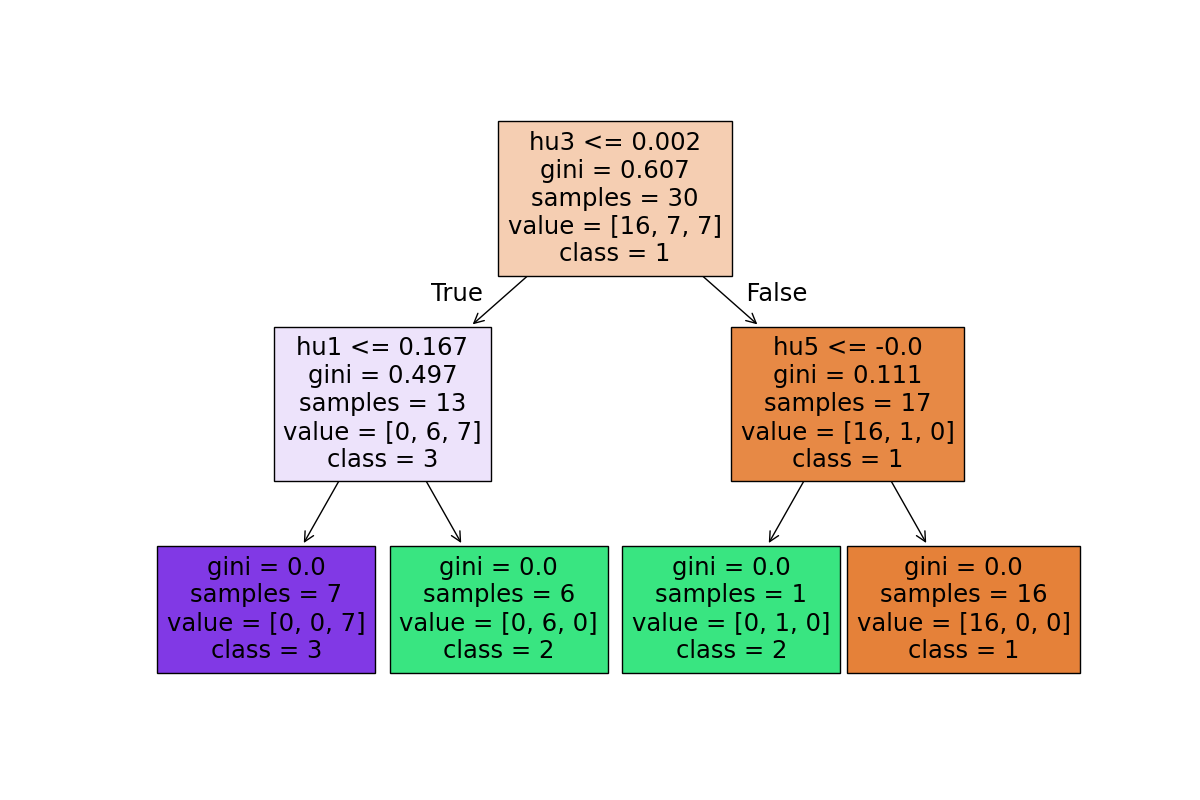
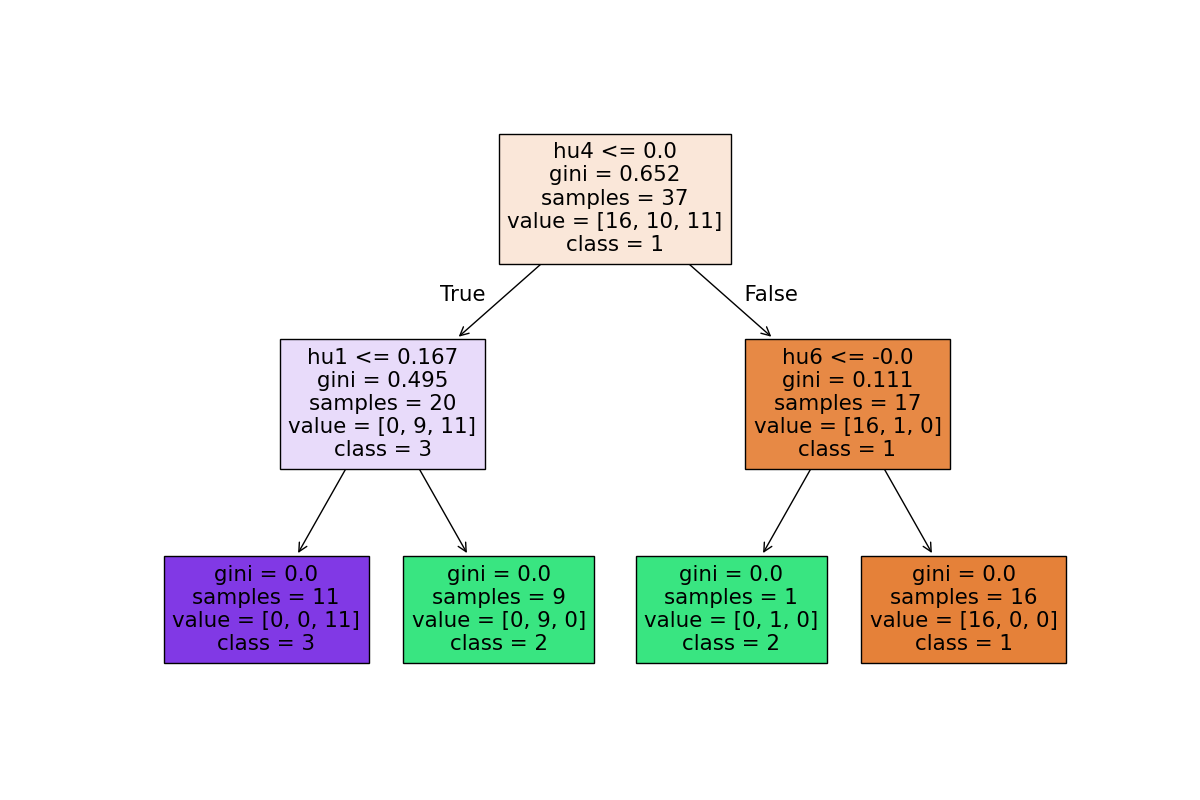
Expand the dataset; update image processing and user interaction in classifiers; enhance thresholding method and save options for Hu moments

diff --git a/generador_descriptores.py b/generador_descriptores.py
@@ -43,19 +43,17 @@ while True:
     key = cv2.waitKey(1) & 0xFF
     if key == 27:  # ESC para salir
         break
-    elif key == 32 and contours:  # ESPACIO para mostrar invariantes de Hu sin guardar
-        moments = cv2.moments(c)
-        hu = cv2.HuMoments(moments).flatten()
-        print("Invariantes de Hu (NO guardados):", hu)
-    elif key == 13 and contours:  # ENTER para guardar invariantes de Hu
+    elif key == 32 and contours:  # ESPACIO para mostrar y preguntar si guardar
         moments = cv2.moments(c)
         hu = cv2.HuMoments(moments).flatten()
         print("Invariantes de Hu:", hu)
-        etiqueta = input("Ingresa la etiqueta numérica para este contorno: ")
-        with open(CSV_FILENAME, mode='a', newline='') as f:
-            writer = csv.writer(f)
-            writer.writerow(list(hu) + [etiqueta])
-        print(f"Guardado en {CSV_FILENAME}")
+        respuesta = input("¿Deseas guardar estos invariantes? (s/n): ").strip().lower()
+        if respuesta == 's':
+            etiqueta = input("Ingresa la etiqueta numérica para este contorno: ")
+            with open(CSV_FILENAME, mode='a', newline='') as f:
+                writer = csv.writer(f)
+                writer.writerow(list(hu) + [etiqueta])
+            print(f"Guardado en {CSV_FILENAME}")
 
 cap.release()
 cv2.destroyAllWindows()

diff --git a/clasificador.py b/clasificador.py
@@ -22,9 +22,10 @@ while True:
     if not ret:
         break # Si no se pudo capturar, termina el bucle
 
-    # Convierte la imagen a escala de grises, aplica umbral para binarizar y encuentra contornos
+    # Convierte la imagen a escala de grises, aplica umbral adaptativo Otsu para binarizar y encuentra contornos
     gray = cv2.cvtColor(frame, cv2.COLOR_BGR2GRAY)
-    _, thresh = cv2.threshold(gray, 127, 255, cv2.THRESH_BINARY_INV)
+    # Otsu encuentra el mejor umbral automáticamente
+    _, thresh = cv2.threshold(gray, 0, 255, cv2.THRESH_BINARY_INV + cv2.THRESH_OTSU)
     contours, _ = cv2.findContours(thresh, cv2.RETR_EXTERNAL, cv2.CHAIN_APPROX_SIMPLE)
 
     # Procesa cada contorno encontrado